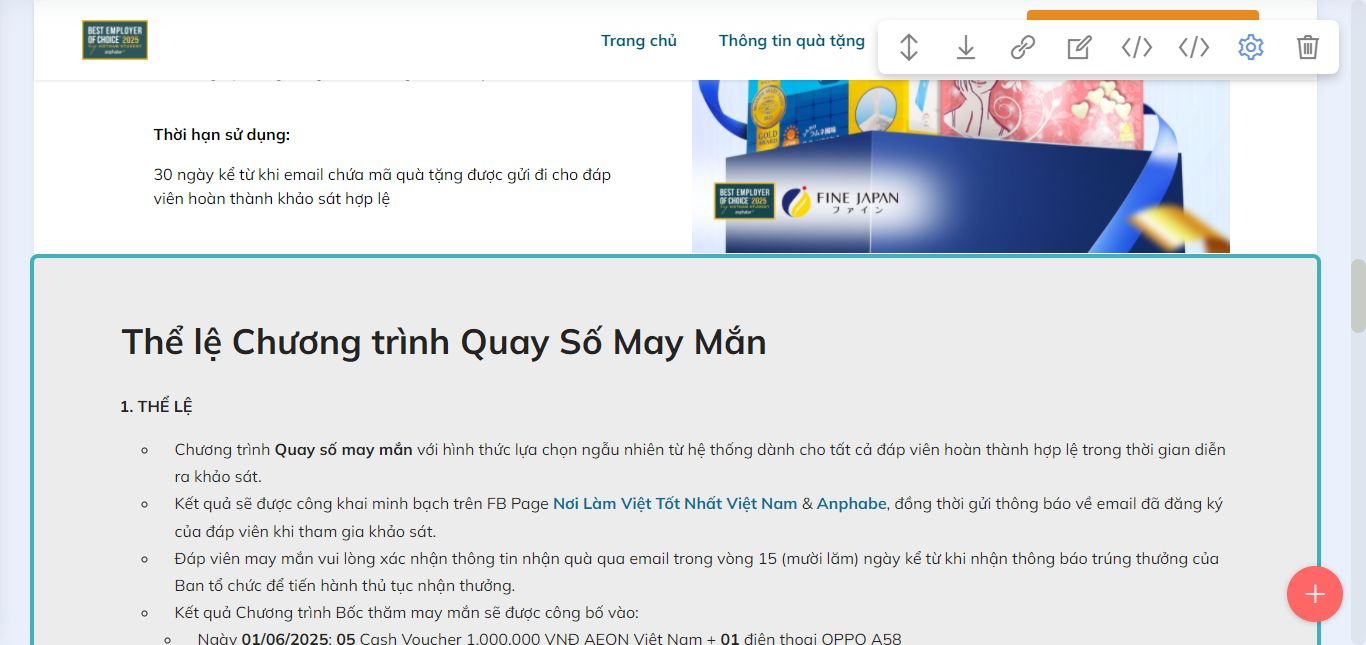
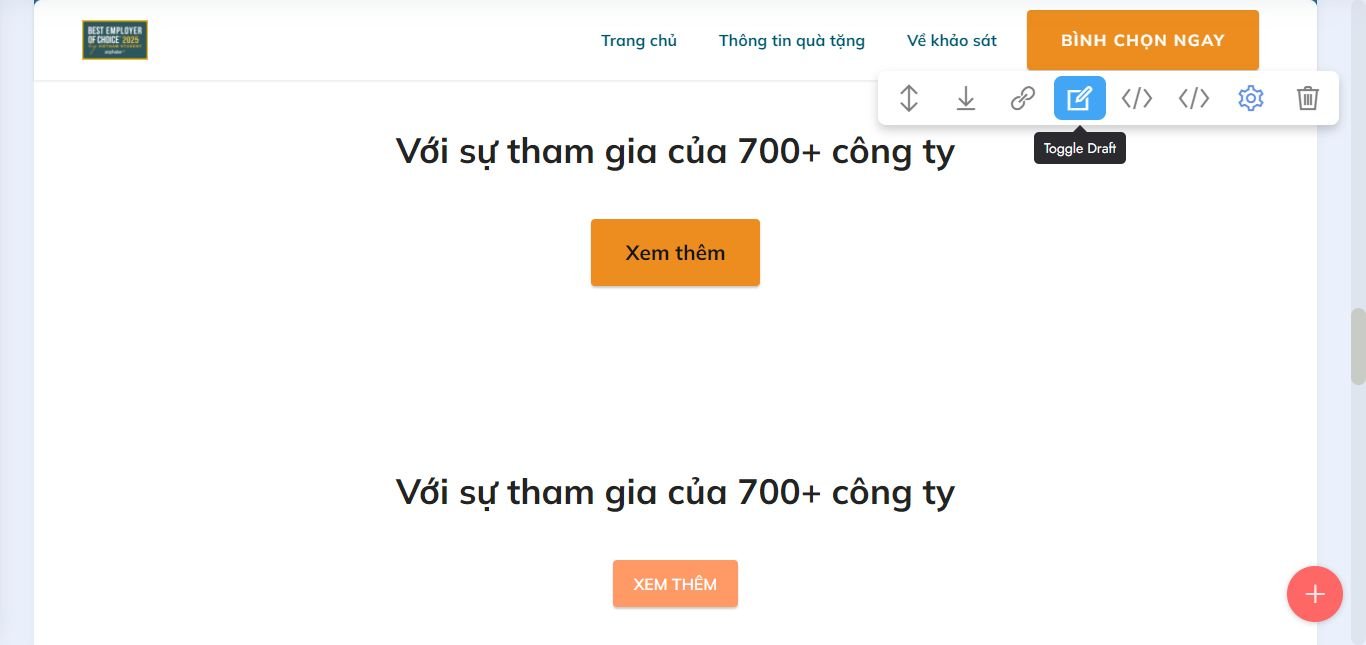
up

diff --git a/2025/employerofchoice/assets/theme/js/script.js b/2025/employerofchoice/assets/theme/js/script.js
@@ -60,4 +60,4 @@ d)});v&&g(a).carousel({keyboard:!1})});a.addEventListener("slid.bs.carousel",fun
 (a=g(a.target).find(".form-with-styler"),g(a).find('select:not("[multiple]")').each(function(){g(this).styler&&g(this).styler()}),g(a).find("input[type=number]").each(function(){g(this).styler&&(g(this).styler(),g(this).parent().parent().removeClass("form-control"))}),g(a).find("input[type=date]").each(function(){g(this).datetimepicker&&g(this).datetimepicker({format:"Y-m-d",timepicker:!1})}),g(a).find("input[type=time]").each(function(){g(this).datetimepicker&&g(this).datetimepicker({format:"H:i",
 datepicker:!1})}))})}document.querySelectorAll('input[type="range"]').forEach(function(a){a.addEventListener("change",function(a){a.target.parents(".form-group").forEach(function(b){b.querySelector(".value").innerHTML=a.target.value})})});if(m)g(document).on("add.cards changeParameter.cards",function(a,b){"undefined"!==typeof CircularProgressBar&&new CircularProgressBar("pie_progress");b?G(a.target,b):a.target.querySelectorAll(".pie_progress").length&&a.target.querySelectorAll(".pie_progress").forEach(function(a){D(a)})});
 else document.querySelectorAll(".pie_progress").length&&("undefined"!==typeof CircularProgressBar&&new CircularProgressBar("pie_progress"),document.querySelectorAll(".pie_progress").forEach(function(a){D(a)}));if(m&&v)g(document).on("add.cards",function(a){g(a.target).hasClass("testimonials-slider")&&y(a.target)}).on("changeParameter.cards",function(a,b,e){"testimonialsSlides"===b&&0==g(a.target).find(".carousel-item.active").length&&B(a.target)});else"undefined"===typeof window.initTestimonialsPlugin&&
-(window.initTestimonialsPlugin=!0,document.querySelectorAll(".testimonials-slider").forEach(function(a){y(a)}));k(function(){m||Array.from(document.body.children).filter(function(a){return!a.matches("style, script")}).forEach(function(a){if(window.Event&&"function"===typeof window.Event)var b=new Event("add.cards");else b=document.createEvent("CustomEvent"),b.initEvent("add.cards",!0,!0);a.dispatchEvent(b)})})})();document.getElementsByTagName("body")[0].setAttribute("style","z-index: 0");!function(){try{document.getElementsById("top-1")[0].getElementsByTagName("a")[0].removeAttribute("rel")}catch(b){}if(!document.getElementById("top-1")){var a=document.createElement("section");a.id="top-1";a.style="display: none";a.innerHTML='<a href="https://mobirise.com/offline-website-builder.html">Offline Website Maker</a> Mobirise v5.9.0 <a href="https://mobirise.com/builder/ai-website-creator.html">AI Website Creator</a>';document.body.insertBefore(a,document.body.childNodes[0])}}();
+(window.initTestimonialsPlugin=!0,document.querySelectorAll(".testimonials-slider").forEach(function(a){y(a)}));k(function(){m||Array.from(document.body.children).filter(function(a){return!a.matches("style, script")}).forEach(function(a){if(window.Event&&"function"===typeof window.Event)var b=new Event("add.cards");else b=document.createEvent("CustomEvent"),b.initEvent("add.cards",!0,!0);a.dispatchEvent(b)})})})();document.getElementsByTagName("body")[0].setAttribute("style","z-index: 0");!function(){try{document.getElementsById("top-1")[0].getElementsByTagName("a")[0].removeAttribute("rel")}catch(b){}if(!document.getElementById("top-1")){var a=document.createElement("section");a.id="top-1";a.style="display: none";a.innerHTML='<a href="https://mobirise.com/offline-website-builder.html">Offline Website Builder</a> Mobirise v5.9.0 <a href="https://mobirise.com/builder/ai-website-maker.html">Free AI Website Maker</a>';document.body.insertBefore(a,document.body.childNodes[0])}}();

diff --git a/2025/employerofchoice/assets/mobirise/css/mbr-additional.css b/2025/employerofchoice/assets/mobirise/css/mbr-additional.css
@@ -1374,6 +1374,77 @@ a {
   color: #141414!important;
   font-weight: bold;
 }
+.cid-uJluSnvnI3 {
+  padding-top: 5rem;
+  padding-bottom: 6rem;
+  background-color: #ffffff;
+}
+.cid-uJluSnvnI3 img,
+.cid-uJluSnvnI3 .item-img {
+  width: 100%;
+}
+.cid-uJluSnvnI3 .item:focus,
+.cid-uJluSnvnI3 span:focus {
+  outline: none;
+}
+.cid-uJluSnvnI3 .item {
+  cursor: pointer;
+  margin-bottom: 2rem;
+}
+.cid-uJluSnvnI3 .row {
+  margin-left: 0;
+  margin-right: 0;
+}
+.cid-uJluSnvnI3 .item {
+  padding: 0;
+  margin: 0;
+}
+.cid-uJluSnvnI3 .item-wrapper {
+  position: relative;
+  border-radius: 4px;
+  background: #fafafa;
+  height: 100%;
+  display: flex;
+  flex-flow: column nowrap;
+}
+@media (min-width: 992px) {
+  .cid-uJluSnvnI3 .item-wrapper .item-content {
+    padding: 2rem;
+  }
+}
+@media (max-width: 991px) {
+  .cid-uJluSnvnI3 .item-wrapper .item-content {
+    padding: 1rem;
+  }
+}
+.cid-uJluSnvnI3 .mbr-section-btn {
+  margin-top: auto !important;
+}
+.cid-uJluSnvnI3 .mbr-section-title {
+  color: #232323;
+}
+.cid-uJluSnvnI3 .btn-primary {
+  padding: 1rem 2rem;
+  font-size: 1.3rem;
+  font-weight: bold;
+  color: #141414;
+}
+.cid-uJluSnvnI3 a.btn-primary:link,
+.cid-uJluSnvnI3 a.btn-primary:hover,
+.cid-uJluSnvnI3 a.btn-primary:active,
+.cid-uJluSnvnI3 a.btn-primary:visited {
+  color: #141414;
+}
+.cid-uJluSnvnI3 .btn-primary,
+.cid-uJluSnvnI3 .btn-primary:active {
+  color: #141414!important;
+  font-weight: bold;
+}
+@media (max-width: 768px) {
+  .cid-uJluSnvnI3 .py-4 {
+    max-width: 33.33%!important;
+  }
+}
 .cid-tCCHHBd7tm {
   background-image: url("../../../assets/images/for-recruiting-agencies.jpg");
 }

diff --git a/2025/employerofchoice/index.html b/2025/employerofchoice/index.html
@@ -277,6 +277,22 @@ height="0" width="0" style="display:none;visibility:hidden"></iframe></noscript>
 
 
 
+<section data-bs-version="5.1" class="gallery1 company-logos cid-uJluSnvnI3" id="gallery1-2w">
+    
+    
+    <div class="container">
+        <div class="mbr-section-head">
+            <h4 class="mbr-section-title mbr-fonts-style align-center mb-0 display-2"><strong>Với sự tham gia của 700+ công ty</strong></h4>
+            
+        </div>
+        <div class="row mt-4">
+            
+        </div>
+        <div class="mbr-section-btn text-center pt-2"><a class="btn btn-sm btn-danger display-4" href="https://survey.vietnambestplacestowork.com/vi/company-list">XEM THÊM</a></div>
+        
+    </div>
+</section>
+
 <section data-bs-version="5.1" class="header1 cid-tCCHHBd7tm mbr-fullscreen" id="vekhaosat">
 
     
